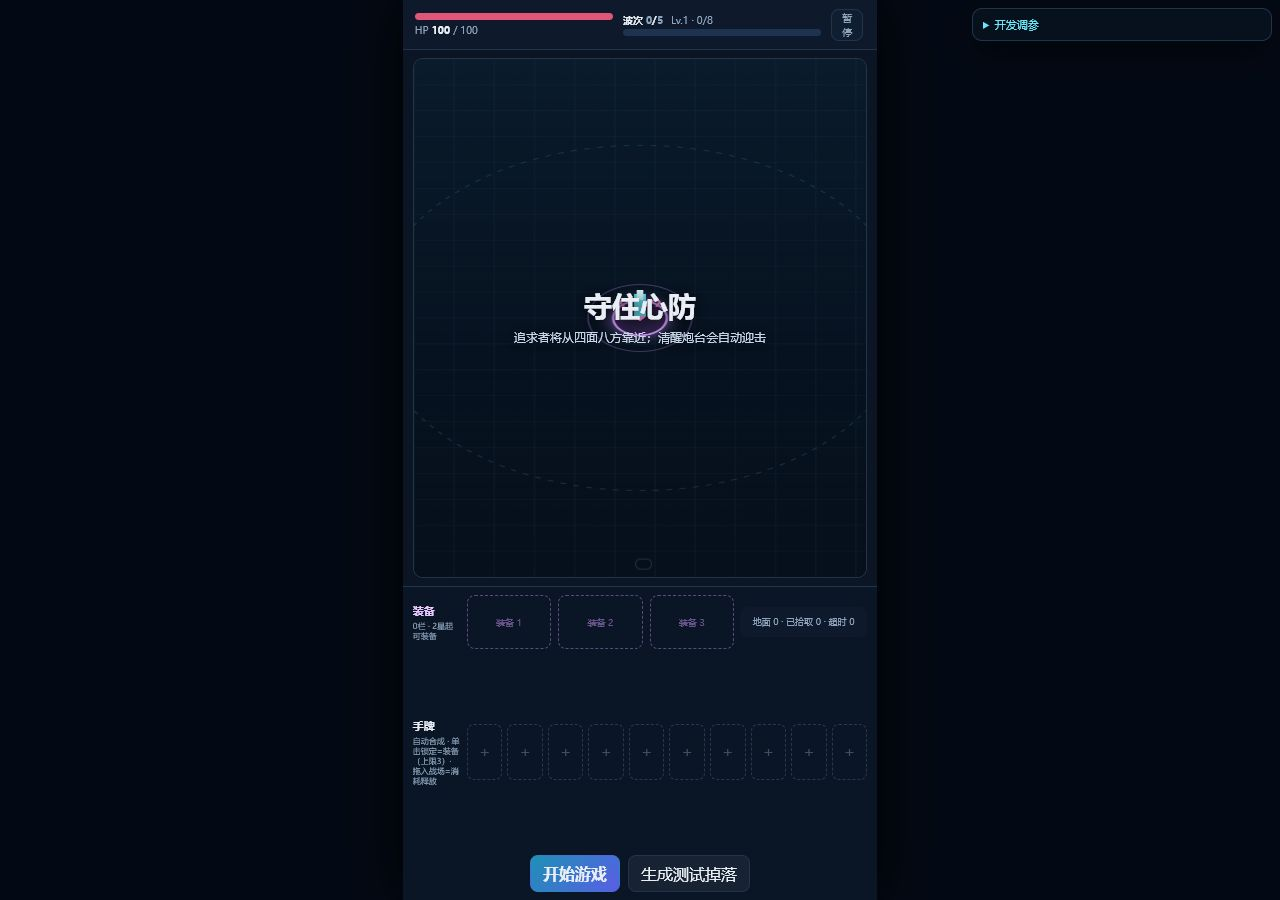
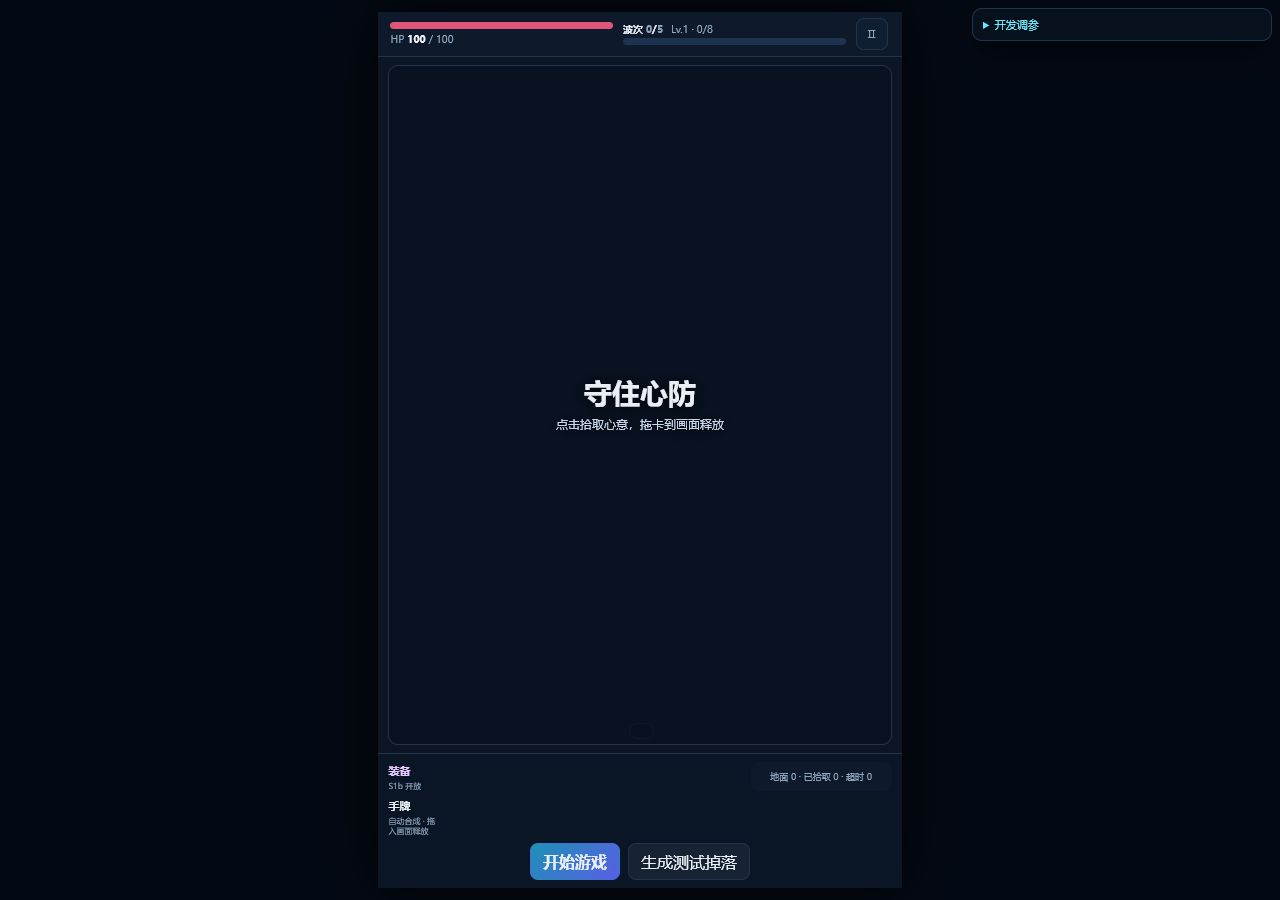
fix: preserve arena aspect ratio and compact dock

diff --git a/src/styles/app.css b/src/styles/app.css
@@ -3,18 +3,18 @@
 html, body { margin:0; min-height:100%; background:#030914; color:var(--text); font-family:Inter,"Microsoft YaHei",system-ui,sans-serif; }
 body { display:grid; place-items:center; min-height:100dvh; overflow:hidden; touch-action:manipulation; }
 button, input, select { font:inherit; }
-.game-shell { width:min(100vw, 52.7dvh, 540px); height:min(100dvh, 189.6vw, 1024px); display:grid; grid-template-rows:5.6% minmax(0,59.5%) minmax(228px,34.9%); overflow:hidden; background:#0b1524; box-shadow:0 0 60px #000; }
+.game-shell { width:min(100vw, calc((100dvh - 220px) * .74 + 20px), 540px); max-height:100dvh; display:grid; grid-template-rows:auto auto auto; overflow:hidden; background:#0b1524; box-shadow:0 0 60px #000; }
 .game-hud { display:grid; grid-template-columns:1fr 1fr 34px; align-items:center; gap:10px; padding:6px 12px; border-bottom:1px solid var(--line); background:#0e1a2c; font-size:10px; }
 .game-hud span { color:var(--muted); }.game-hud b,.game-hud strong { color:var(--text); }.hud-progress { display:grid; grid-template-columns:auto 1fr; gap:2px 8px; }.hud-progress .bar { grid-column:1/-1; }
 .bar { height:7px; overflow:hidden; border-radius:9px; background:#1d3350; }.bar i { display:block; width:100%; height:100%; background:#e0567a; transition:width .2s; }.bar.xp i { background:linear-gradient(90deg,#37d5ff,#8d79ff); }
 .hud-vital span { display:block; margin-top:3px; }.hud-pause { width:32px; height:32px; border:1px solid var(--line); border-radius:8px; background:#101e32; color:var(--muted); cursor:pointer; }
-.arena { position:relative; min-height:0; margin:8px 10px; overflow:hidden; border:1px solid var(--line); border-radius:10px; background:#081221; }
+.arena { position:relative; width:calc(100% - 20px); aspect-ratio:540 / 730; margin:8px 10px; overflow:hidden; border:1px solid var(--line); border-radius:10px; background:#081221; }
 canvas { display:block; width:100%; height:100%; touch-action:none; cursor:crosshair; }
 .center-msg { position:absolute; z-index:4; inset:50% auto auto 50%; translate:-50% -50%; width:85%; text-align:center; pointer-events:none; text-shadow:0 2px 16px #000; }.center-msg h2 { margin:0; font-size:28px; }.center-msg p { margin:6px 0; color:#c7d7e9; font-size:12px; }
 .toast { position:absolute; z-index:8; left:50%; bottom:12px; translate:-50% 8px; opacity:0; padding:8px 13px; border:1px solid var(--line); border-radius:99px; background:#040c17e8; font-size:12px; white-space:nowrap; pointer-events:none; transition:.2s; }.toast.show { opacity:1; translate:-50% 0; }
 .aim-preview { --radius:90px; position:fixed; z-index:30; display:none; width:calc(var(--radius)*2); height:calc(var(--radius)*2); translate:-50% -50%; border:2px dashed var(--cyan); border-radius:50%; box-shadow:0 0 22px #67e8f955,inset 0 0 22px #67e8f922; pointer-events:none; }.aim-preview::after { content:""; position:absolute; left:50%; top:50%; width:5px; height:5px; translate:-50% -50%; border-radius:50%; background:var(--cyan); }.aim-preview.show,.screen-preview.show { display:block; }
 .screen-preview { position:absolute; z-index:6; display:none; inset:0; background:radial-gradient(circle at center,#67e8f922,transparent 70%); box-shadow:inset 0 0 35px #67e8f944; pointer-events:none; }
-.game-dock { position:relative; z-index:10; display:grid; grid-template-rows:auto 1fr auto; gap:7px; padding:8px 10px max(8px,env(safe-area-inset-bottom)); border-top:1px solid var(--line); background:var(--panel); }
+.game-dock { position:relative; z-index:10; display:grid; grid-template-rows:auto auto auto; gap:7px; padding:8px 10px max(8px,env(safe-area-inset-bottom)); border-top:1px solid var(--line); background:var(--panel); }
 .dock-row { display:grid; grid-template-columns:48px 1fr; gap:6px; align-items:center; }.equipment-row { grid-template-columns:48px 1fr minmax(80px,28%); }.dock-label strong,.dock-label small { display:block; }.dock-label strong { font-size:11px; }.dock-label small { margin-top:3px; color:var(--muted); font-size:8px; }
 .equipment-row .dock-label strong { color:#e9c8ff; }.equipment-slots { display:grid; grid-template-columns:repeat(3,1fr); gap:7px; }.equip-slot { height:54px; display:grid; place-items:center; border:1px dashed #d59bff66; border-radius:8px; color:#d59bff77; font-size:9px; }.equip-slot.placeholder { pointer-events:none; }
 .dock-telemetry { padding:8px 5px; border-radius:8px; background:#0e1a2c; color:var(--muted); font-size:9px; line-height:1.5; text-align:center; }
@@ -23,4 +23,4 @@ canvas { display:block; width:100%; height:100%; touch-action:none; cursor:cross
 .dock-actions { display:flex; justify-content:center; gap:8px; }.btn { padding:7px 12px; border:1px solid var(--line); border-radius:8px; background:#ffffff0e; color:var(--text); cursor:pointer; }.btn.primary { border-color:transparent; background:linear-gradient(135deg,#1d91b5,#5a5de6); font-weight:800; }
 .dev-tools { position:fixed; z-index:40; top:8px; right:8px; width:min(300px,calc(100vw - 16px)); border:1px solid var(--line); border-radius:10px; background:#07111eef; box-shadow:0 12px 35px #0008; font-size:11px; }.dev-tools summary { padding:8px 10px; color:var(--cyan); cursor:pointer; }.dev-tools-body { max-height:75dvh; overflow:auto; padding:0 10px 10px; }.stats { display:flex; gap:10px; margin-bottom:8px; color:var(--muted); }.tuner { display:grid; gap:7px; }.tuner label { display:grid; grid-template-columns:1fr auto; gap:3px 8px; color:var(--muted); }.tuner input,.tuner select { grid-column:1/-1; width:100%; }.tuner output { color:var(--cyan); }
 .modal { position:fixed; inset:0; z-index:50; display:none; place-items:center; padding:18px; background:#02070fcc; backdrop-filter:blur(8px); }.modal.show { display:grid; }.modal-card { width:min(520px,100%); padding:22px; border:1px solid var(--line); border-radius:16px; background:#0b1728; }.modal-card h2 { margin:0 0 6px; }.modal-card>p { color:var(--muted); }.choices { display:grid; grid-template-columns:repeat(3,1fr); gap:8px; }.choice { min-height:100px; padding:12px; border:1px solid var(--line); border-radius:10px; background:#ffffff0a; color:var(--text); text-align:left; }.choice b { display:block; margin-bottom:6px; color:var(--cyan); }.result-grid { display:grid; grid-template-columns:repeat(3,1fr); gap:8px; margin:16px 0; }.result-grid div { padding:10px; border-radius:8px; background:#ffffff0a; text-align:center; }.result-grid span,.result-grid b { display:block; }
-@media (max-height:720px) { .game-shell { grid-template-rows:40px minmax(0,1fr) 210px; }.game-dock { min-height:210px; }.equip-slot,.card-slot,.card { height:46px; }.dock-actions { position:absolute; right:10px; top:7px; }.equipment-row { padding-top:28px; } }
+@media (max-height:720px) { .equip-slot,.card-slot,.card { height:46px; }.dock-actions { position:absolute; right:10px; top:7px; }.equipment-row { padding-top:28px; } }

diff --git a/tests/effectInterpreter.test.ts b/tests/effectInterpreter.test.ts
@@ -104,7 +104,7 @@ describe('解释器 · 装备态触发绑定', () => {
     registerSkillDefs([def('multi', [{ trigger: 'interval', triggerParams: { seconds: 1 }, effects: [{ atom: 'burstDamage', params: { damageMul: 1, radius: 300 } }] }])]);
     const s = freshState();
     equipLocked(s, 'multi', 3);
-    const e = enemy({ x: 270, y: 480, hp: 1000, maxHp: 1000 });
+    const e = enemy({ x: 270, y: 365, hp: 1000, maxHp: 1000 });
     s.enemies = [e];
     tickIntervalBindings(s, config, rng, 0.5);
     expect(e.hp).toBe(1000);              // 未到期
@@ -159,14 +159,14 @@ describe('解释器 · passive 修饰聚合', () => {
     registerSkillDefs([def('range', passive([{ atom: 'breachReduction', params: { ratio: 0.5 } }]))]);
     const s = freshState();
     equipLocked(s, 'range', 2);
-    s.enemies = [enemy({ x: 271, y: 480, hp: 999, maxHp: 999, damage: 28 })];
+    s.enemies = [enemy({ x: 271, y: 365, hp: 999, maxHp: 999, damage: 28 })];
     moveEnemies(s, config, rng, 0.016);
     expect(s.hp).toBe(100 - 14); // 28 × (1-0.5)
 
     registerSkillDefs([def('range', passive([{ atom: 'thorns', params: { ratio: 2 } }]))]);
     const s2 = freshState();
     equipLocked(s2, 'range', 2);
-    s2.enemies = [enemy({ x: 271, y: 480, hp: 10, maxHp: 10, damage: 8, xp: 1 })];
+    s2.enemies = [enemy({ x: 271, y: 365, hp: 10, maxHp: 10, damage: 8, xp: 1 })];
     moveEnemies(s2, config, rng, 0.016);
     expect(s2.hp).toBe(100);  // 反噬致死 → 无突破伤害
     expect(s2.kills).toBe(1); // 按击杀结算
@@ -200,9 +200,9 @@ describe('解释器 · passive 修饰聚合', () => {
     const s = freshState();
     equipLocked(s, 'damage', 3);
     expect(getModifiers(s).morph).toBe('mortar');
-    shoot(s, config, rng, enemy({ x: 350, y: 480 }));
+    shoot(s, config, rng, enemy({ x: 350, y: 365 }));
     expect(s.bullets[0].kind).toBe('mortar');
-    const e = enemy({ x: 350, y: 480, hp: 1000, maxHp: 1000 });
+    const e = enemy({ x: 350, y: 365, hp: 1000, maxHp: 1000 });
     s.enemies = [e];
     for (let i = 0; i < 30 && s.bullets.length; i++) updateBullets(s, config, rng, 0.033);
     expect(e.hp).toBeLessThan(1000);
@@ -212,7 +212,7 @@ describe('解释器 · passive 修饰聚合', () => {
     registerSkillDefs([def('damage', passive([{ atom: 'beamMorph', params: { interval: 0.5, width: 30, damageRatio: 1 } }]))]);
     const s = freshState();
     equipLocked(s, 'damage', 3);
-    const e = enemy({ x: 390, y: 480, hp: 1000, maxHp: 1000 });
+    const e = enemy({ x: 390, y: 365, hp: 1000, maxHp: 1000 });
     s.enemies = [e];
     updateTurret(s, config, rng, 0.3);
     expect(s.bullets).toHaveLength(0);
@@ -256,8 +256,8 @@ describe('运行时 · 区域/光环/召唤物/护盾', () => {
     registerSkillDefs([def('rate', [{ trigger: 'passive', effects: [{ atom: 'aura', params: { radiusRatioOfRange: 0.6, tickInterval: 0.4, effects: [{ atom: 'slow', params: { ratio: 0.35, duration: 0.9 } }] } }] }])]);
     const s = freshState();
     equipLocked(s, 'rate', 3);
-    const near = enemy({ x: 350, y: 480, hp: 100, maxHp: 100 });
-    const far = enemy({ x: 270 + 900, y: 480, hp: 100, maxHp: 100 });
+    const near = enemy({ x: 350, y: 365, hp: 100, maxHp: 100 });
+    const far = enemy({ x: 270 + 900, y: 365, hp: 100, maxHp: 100 });
     s.enemies = [near, far];
     tickEffects(s, config, rng, 0.2);
     tickEffects(s, config, rng, 0.3); // 累计超过 tickInterval → 脉冲
@@ -305,7 +305,7 @@ describe('运行时 · 区域/光环/召唤物/护盾', () => {
     const s = freshState();
     equipLocked(s, 'range', 2);
     s.shield = { hits: 1, maxHits: 1, regenRemaining: null, regenSeconds: 2 };
-    const bystander = enemy({ x: 350, y: 480, hp: 100, maxHp: 100 });
+    const bystander = enemy({ x: 350, y: 365, hp: 100, maxHp: 100 });
     s.enemies = [bystander];
     const events: ReturnType<typeof fireTrigger> = [];
     const dmg = absorbBreach(s, config, rng, 28, events);

diff --git a/tests/combatSystem.test.ts b/tests/combatSystem.test.ts
@@ -10,8 +10,8 @@ describe('combatSystem · 锁定', () => {
   it('锁定射程内最近的敌人', () => {
     const s = freshState();
     const config = createDefaultConfig();
-    const near = enemy({ x: 290, y: 480 });
-    const far = enemy({ x: 390, y: 480 });
+    const near = enemy({ x: 290, y: 365 });
+    const far = enemy({ x: 390, y: 365 });
     s.enemies = [far, near];
     expect(findTarget(s, config)).toBe(near);
   });
@@ -20,15 +20,15 @@ describe('combatSystem · 锁定', () => {
     const s = freshState();
     const config = createDefaultConfig();
     config.range = 430;
-    s.enemies = [enemy({ x: 701, y: 480 })];
+    s.enemies = [enemy({ x: 701, y: 365 })];
     expect(findTarget(s, config)).toBeNull();
   });
 
   it('烙印（focusPriority）权重优先于最近（仲裁规则5）', () => {
     const s = freshState();
     const config = createDefaultConfig();
-    const near = enemy({ x: 290, y: 480 });
-    const branded = enemy({ x: 410, y: 480 });
+    const near = enemy({ x: 290, y: 365 });
+    const branded = enemy({ x: 410, y: 365 });
     applyBrand(branded, 2, 4);
     s.enemies = [near, branded];
     expect(findTarget(s, config)).toBe(branded);

diff --git a/tests/pointerRouter.test.ts b/tests/pointerRouter.test.ts
@@ -12,8 +12,8 @@ describe('pointerRouter · 阈值', () => {
 });
 
 describe('pointerRouter · 坐标与取消', () => {
-  it('把 CSS 显示坐标等比换算到 540×960 画布', () => {
-    expect(canvasPoint({ width: 540, height: 960 }, { left: 10, top: 20, width: 270, height: 480 } as DOMRect, 145, 260)).toEqual({ x: 270, y: 480 });
+  it('把 CSS 显示坐标等比换算到 540×730 画布', () => {
+    expect(canvasPoint({ width: 540, height: 730 }, { left: 10, top: 20, width: 270, height: 365 } as DOMRect, 145, 202.5)).toEqual({ x: 270, y: 365 });
   });
   it('计算 pointerdown 后的欧氏位移', () => expect(distanceFrom(start, 16, 28)).toBe(10));
   it('出屏/非画布/非卡格落点走取消路径', () => {

diff --git a/tests/waveSystem.test.ts b/tests/waveSystem.test.ts
@@ -63,7 +63,7 @@ describe('waveSystem · boss 与胜负', () => {
     const s = freshState();
     const config = createDefaultConfig();
     s.hp = 10;
-    s.enemies = [enemy({ x: 270, y: 480, type: 'boss', hp: 100, maxHp: 100, speed: 12, r: 35, damage: 28, xp: 5 })];
+    s.enemies = [enemy({ x: 270, y: 365, type: 'boss', hp: 100, maxHp: 100, speed: 12, r: 35, damage: 28, xp: 5 })];
     const ev = moveEnemies(s, config, constRng(0), 0.016);
     expect(ev).toContainEqual({ type: 'gameEnd', win: false });
     expect(s.hp).toBeLessThanOrEqual(0);

diff --git a/index.html b/index.html
@@ -21,7 +21,7 @@
     </header>
 
     <section class="arena" id="arena">
-      <canvas id="game" width="540" height="960" aria-label="主画面释放区"></canvas>
+      <canvas id="game" width="540" height="730" aria-label="主画面释放区"></canvas>
       <div class="center-msg" id="centerMsg"><h2>守住心防</h2><p>点击拾取心意，拖卡到画面释放</p></div>
       <div class="toast" id="toast"></div>
       <div class="aim-preview" id="aimPreview" aria-hidden="true"><i></i></div>
